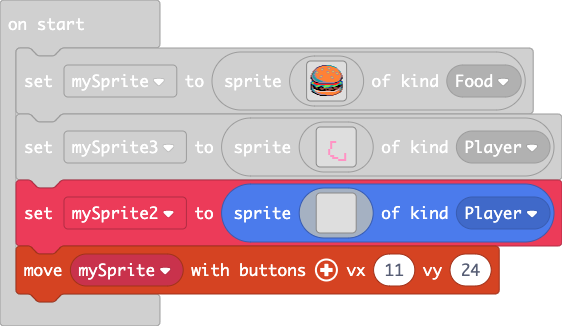
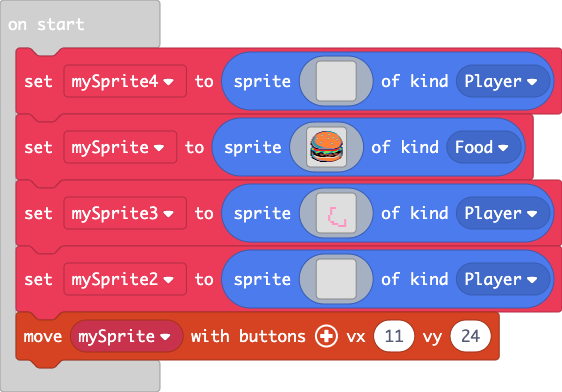
Update main.blocks, main.ts

diff --git a/main.ts b/main.ts
@@ -1,3 +1,21 @@
+let mySprite4 = sprites.create(img`
+. . . . . . . . . . . . . . . . 
+. . . . . . . . . . . . . . . . 
+. . . . . . . . . . . . . . . . 
+. . . . . . . . . . . . . . . . 
+. . . . . . . . . . . . . . . . 
+. . . . . . . . . . . . . . . . 
+. . . . . . . . . . . . . . . . 
+. . . . . . . . . . . . . . . . 
+. . . . . . . . . . . . . . . . 
+. . . . . . . . . . . . . . . . 
+. . . . . . . . . . . . . . . . 
+. . . . . . . . . . . . . . . . 
+. . . . . . . . . . . . . . . . 
+. . . . . . . . . . . . . . . . 
+. . . . . . . . . . . . . . . . 
+. . . . . . . . . . . . . . . . 
+`, SpriteKind.Player)
 let mySprite = sprites.create(img`
 . . . . . . . . . . . c c c c c 6 6 6 6 6 . . . . . . . . . . . 
 . . . . . . . . c c c 4 4 4 4 4 4 4 4 4 4 6 6 6 . . . . . . . . 
